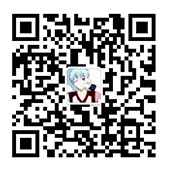
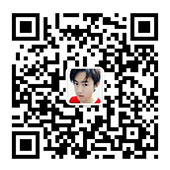
mod index , set puplic js

diff --git a/js/footer.js b/js/footer.js
@@ -1,9 +1,34 @@
 document.writeln(
 '<style>'+
-'#footer{background-color: #b1b1b1; color: #fff; text-align: center; line-height: 66px;}'+
-'#footer a{color: #fff;}'+
+'#footer{background-color: #282828; padding: 80px 50px 0 50px; border-top:1px solid #111; border-bottom: 1px solid #111;}'+
+'#footer .footer-bd{width: 900px; overflow: hidden; padding-bottom: 20px;}'+
+'#footer .footer-bd li{width: 250px; padding-left: 50px; float: left;}'+
+'#footer .footer-bd li dt{color: #bdbdbd; font-size: 16px; margin-bottom: 20px;}'+
+'#footer .footer-bd li dd{line-height: 22px; color: #666; font-size: 14px;}'+
+'#footer a{color: #666; font-size: 14px; transition: all .6s cubic-bezier(.19,1,.22,1); -webkit-transition: all .6s cubic-bezier(.19,1,.22,1);}'+
+'#footer a:hover{color: #888;}'+
+'#footer .footer-copy{padding: 22px 0; font-size: 12px; color: #666; text-align: center; border-top: 1px solid #464646;}'+
 '</style>'+
 '<div id="footer">'+
-'	&copy;2017 <a href="http://www.douchaoyang.com/">douchaoyang</a>'+
+'	<ul class="footer-bd">'+
+'		<li>'+
+'			<dl>'+
+'				<dt>LINKS</dt>'+
+'				<dd><a target="_blank" href="http://e.baidu.com/">百度推广</a></dd>'+
+'				<dd><a target="_blank" href="https://translate.google.cn/">Google 翻译</a></dd>'+
+'			</dl>'+
+'		</li>'+
+'		<li>'+
+'			<dl>'+
+'				<dt>CONTACT</dt>'+
+'				<dd>Gmail : <a href="mailto:douchaoyang@gmail.com">douchaoyang@gmail.com</a></dd>'+
+'				<dd>kik-id : <a>douchaoyang</a></dd>'+
+'			</dl>'+
+'		</li>'+
+'		<li>'+
+'			<img src="img/wechat.jpg" alt="wechat">'+
+'		</li>'+
+'	</ul>'+
+'	<p class="footer-copy">&copy;2017 <a href="http://www.douchaoyang.com/">douchaoyang.com</a> All rights reserved. </p>'+
 '</div>'
 );

diff --git a/index.html b/index.html
@@ -19,9 +19,10 @@
 		<script type="text/javascript" src="js/header.js"></script>
 		<div class="content">
 			<div class="says">
-				<embed align="middle" width="1000" height="400" pluginspage="http://www.macromedia.com/go/getflashplayer" type="application/x-shockwave-flash" allowscriptaccess="always" quality="high" src="js/clock.swf" wmode="transparent">
+				<h2><img src="img/say.png"></h2>
 			</div>
 		</div>
+
 		<script type="text/javascript" src="js/footer.js"></script>
 	</div>
 	<script type="text/javascript" src="js/app.js"></script>

diff --git a/css/com.css b/css/com.css
@@ -40,4 +40,4 @@ body{background: #fff; position: relative;}
 #project li a{position: absolute; right: 30px; top: 36px; width: 63px; height: 60px; background: url(../img/link.png) no-repeat;}
 #project-tip{height: 132px; background-color: #fff; line-height: 132px; text-align: center; font-size: 36px; font-weight: 700; color: #ddd; margin-bottom: 40px;}
 
-.says{}
+.says h2{text-align: center; padding: 90px 0; border-top: 1px solid #eee;}

diff --git a/js/header.js b/js/header.js
@@ -6,7 +6,7 @@ document.writeln(
 '#header .nav{height: 60px; overflow: hidden; background-color: #fff;}'+
 '</style>'+
 '<div id="header">'+
-'	<h1><a href="/">Dou,Chaoyang :)</a></h1>'+
+'	<h1><a href="http://www.douchaoyang.com/">Dou,Chaoyang :)</a></h1>'+
 '	<div class="nav">'+
 '		<a href="/">F2E/CODE</a>'+
 '		<span>●</span>'+
